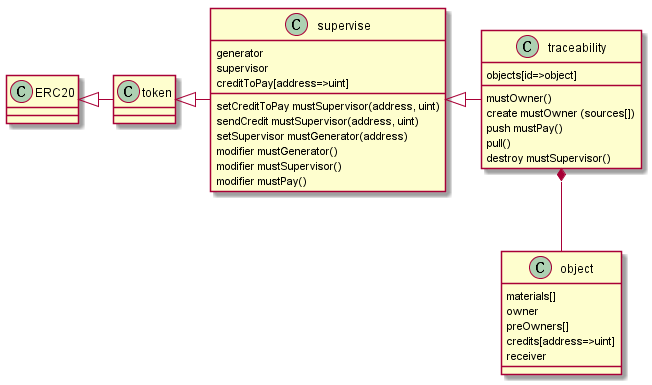
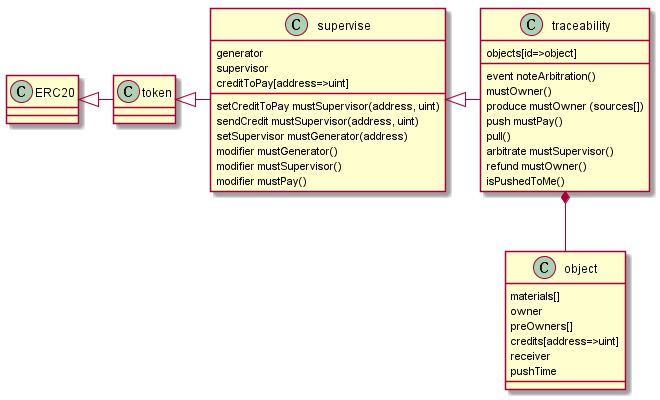
Update sequence UML

Changed region(s): [[0.0, 0.0, 1.0, 0.5299], [0.7669, 0.6234, 0.9816, 0.9974]]

diff --git a/README.md b/README.md
@@ -8,3 +8,6 @@ Please note this is an UNFINISED project.
 
 ## Classes
 ![](https://github.com/txcary/traceability/blob/master/plantuml/class.png)
+
+## sequence
+![](https://github.com/txcary/traceability/blob/master/plantuml/sequence.png)
